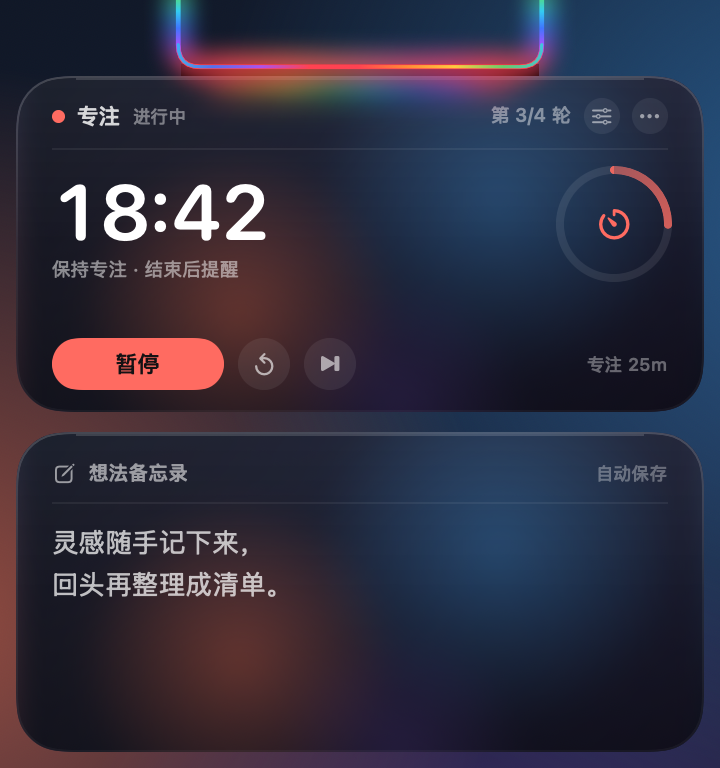
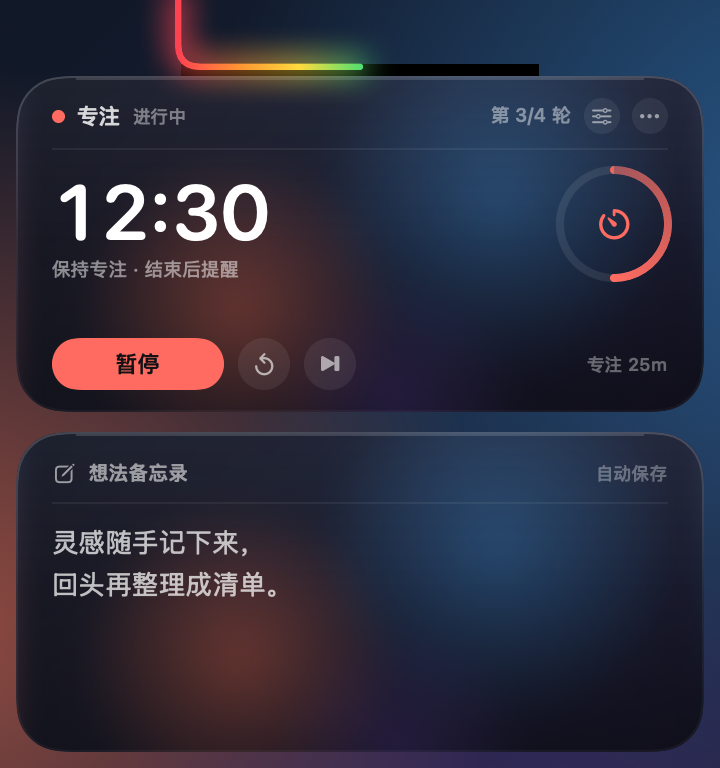
feat: notch rainbow becomes countdown progress bar

diff --git a/Sources/ThemeView.swift b/Sources/ThemeView.swift
@@ -63,26 +63,28 @@ struct ThemeCardBackground: View {
     }
 
     private var simulatedFrost: some View {
-        ZStack {
-            LinearGradient(
-                colors: [
-                    Color(red: 0.12, green: 0.20, blue: 0.34),
-                    Color(red: 0.24, green: 0.12, blue: 0.30),
-                    Color(red: 0.05, green: 0.09, blue: 0.16)
-                ],
-                startPoint: .topLeading,
-                endPoint: .bottomTrailing
-            )
-            Circle()
-                .fill(Color(red: 0.96, green: 0.54, blue: 0.38).opacity(0.55))
-                .frame(width: 190, height: 190)
-                .blur(radius: 60)
-                .offset(x: -100, y: 40)
-            Circle()
-                .fill(Color(red: 0.35, green: 0.72, blue: 0.95).opacity(0.50))
-                .frame(width: 170, height: 170)
-                .blur(radius: 55)
-                .offset(x: 105, y: -50)
+        LinearGradient(
+            colors: [
+                Color(red: 0.12, green: 0.20, blue: 0.34),
+                Color(red: 0.24, green: 0.12, blue: 0.30),
+                Color(red: 0.05, green: 0.09, blue: 0.16)
+            ],
+            startPoint: .topLeading,
+            endPoint: .bottomTrailing
+        )
+        .overlay {
+            ZStack {
+                Circle()
+                    .fill(Color(red: 0.96, green: 0.54, blue: 0.38).opacity(0.55))
+                    .frame(width: 190, height: 190)
+                    .blur(radius: 60)
+                    .offset(x: -100, y: 40)
+                Circle()
+                    .fill(Color(red: 0.35, green: 0.72, blue: 0.95).opacity(0.50))
+                    .frame(width: 170, height: 170)
+                    .blur(radius: 55)
+                    .offset(x: 105, y: -50)
+            }
         }
     }
 }
@@ -138,26 +140,28 @@ struct ThemePreviewCard: View {
     }
 
     private var previewBackdrop: some View {
-        ZStack {
-            LinearGradient(
-                colors: [
-                    Color(red: 0.18, green: 0.24, blue: 0.40),
-                    Color(red: 0.42, green: 0.20, blue: 0.34),
-                    Color(red: 0.10, green: 0.16, blue: 0.24)
-                ],
-                startPoint: .topLeading,
-                endPoint: .bottomTrailing
-            )
-            Circle()
-                .fill(Color(red: 0.98, green: 0.48, blue: 0.32).opacity(0.60))
-                .frame(width: 150, height: 150)
-                .blur(radius: 50)
-                .offset(x: -120, y: 20)
-            Circle()
-                .fill(Color(red: 0.30, green: 0.62, blue: 1.0).opacity(0.55))
-                .frame(width: 170, height: 170)
-                .blur(radius: 55)
-                .offset(x: 130, y: -30)
+        LinearGradient(
+            colors: [
+                Color(red: 0.18, green: 0.24, blue: 0.40),
+                Color(red: 0.42, green: 0.20, blue: 0.34),
+                Color(red: 0.10, green: 0.16, blue: 0.24)
+            ],
+            startPoint: .topLeading,
+            endPoint: .bottomTrailing
+        )
+        .overlay {
+            ZStack {
+                Circle()
+                    .fill(Color(red: 0.98, green: 0.48, blue: 0.32).opacity(0.60))
+                    .frame(width: 150, height: 150)
+                    .blur(radius: 50)
+                    .offset(x: -120, y: 20)
+                Circle()
+                    .fill(Color(red: 0.30, green: 0.62, blue: 1.0).opacity(0.55))
+                    .frame(width: 170, height: 170)
+                    .blur(radius: 55)
+                    .offset(x: 130, y: -30)
+            }
         }
         .allowsHitTesting(false)
     }

diff --git a/Sources/NotchView.swift b/Sources/NotchView.swift
@@ -16,12 +16,16 @@ enum RainbowPalette {
         Color(red: 0.64, green: 0.33, blue: 1.00),
         Color(red: 1.00, green: 0.26, blue: 0.32)
     ]
+
+    /// 进度条模式去掉末尾重复的红色，让整条 U 从左到右呈现完整色谱。
+    static let progressColors = Array(colors.dropLast())
 }
 
 // MARK: - 环绕刘海的彩虹
 
 struct NotchRimView: View {
     @ObservedObject var model: AppModel
+    @ObservedObject var pomodoro: PomodoroEngine
     @ObservedObject var ui: NotchUIState
     let geometry: NotchGeometry
 
@@ -52,6 +56,11 @@ struct NotchRimView: View {
         let pulse = ui.reminder
             ? 0.88 + 0.12 * CGFloat(sin(time * 4.2))
             : 1
+
+        if pomodoro.state != .ready {
+            drawProgress(context: &context, rim: rim, rect: rect, pulse: pulse)
+            return
+        }
 
         if !geometry.hasNotch {
             let silhouetteRect = CGRect(
@@ -145,6 +154,51 @@ struct NotchRimView: View {
                 style: StrokeStyle(lineWidth: 1.6, lineCap: .round, lineJoin: .round)
             )
         }
+    }
+
+    /// 倒计时期间，彩虹不再是流动的光环，而是沿 U 形路径从左到右填充的进度条。
+    /// 0% 完全不画彩虹，100% 画满整条 U。
+    private func drawProgress(
+        context: inout GraphicsContext,
+        rim: Path,
+        rect: CGRect,
+        pulse: CGFloat
+    ) {
+        let progress = min(max(pomodoro.liveProgress, 0), 1)
+        guard progress > 0.0005 else { return }
+
+        let filled = rim.trimmedPath(from: 0, to: progress)
+        let shading = GraphicsContext.Shading.linearGradient(
+            Gradient(colors: RainbowPalette.progressColors),
+            startPoint: CGPoint(x: rect.minX, y: rect.midY),
+            endPoint: CGPoint(x: rect.maxX, y: rect.midY)
+        )
+
+        // 填充部分的外发光
+        context.drawLayer { layer in
+            layer.addFilter(.blur(radius: ui.expanded ? 7.5 : 5.5))
+            layer.opacity = 0.9 * pulse
+            layer.stroke(
+                filled,
+                with: shading,
+                style: StrokeStyle(
+                    lineWidth: ui.expanded ? 8.5 : 7,
+                    lineCap: .round,
+                    lineJoin: .round
+                )
+            )
+        }
+
+        // 彩虹进度条本体
+        context.stroke(
+            filled,
+            with: shading,
+            style: StrokeStyle(
+                lineWidth: ui.expanded ? 3.2 : 2.8,
+                lineCap: .round,
+                lineJoin: .round
+            )
+        )
     }
 
     private static func openUPath(in rect: CGRect, radius: CGFloat) -> Path {

diff --git a/Sources/main.swift b/Sources/main.swift
@@ -109,8 +109,8 @@ private func renderPreview() {
     model.theme.applyPreview(image: wallpaper, opacity: 0.82, glass: .frosted)
     model.pomodoro.applyPreview(
         phase: .focus,
-        state: .running,
-        remaining: 18 * 60 + 42,
+        state: .ready,
+        remaining: 25 * 60,
         todayFocusCount: 3,
         focusStreak: 2
     )
@@ -121,10 +121,18 @@ private func renderPreview() {
     let outputDirectory = ProcessInfo.processInfo.environment["USAGECLOCK_PREVIEW_DIR"] ?? "."
 
     let collapsed = PreviewStage(size: CGSize(width: 360, height: 90), bodyOffset: 0) {
-        NotchRimView(model: model, ui: NotchUIState(), geometry: geometry)
+        NotchRimView(model: model, pomodoro: model.pomodoro, ui: NotchUIState(), geometry: geometry)
             .frame(width: geometry.capWidth, height: geometry.capHeight)
     }
     render(collapsed, width: 360, height: 90, to: "\(outputDirectory)/preview-cap.png")
+
+    model.pomodoro.applyPreview(
+        phase: .focus,
+        state: .running,
+        remaining: 12 * 60 + 30,
+        todayFocusCount: 3,
+        focusStreak: 2
+    )
 
     let expandedHeight = 32 + geometry.bodyWindowHeight
     let expanded = PreviewStage(size: CGSize(width: 360, height: expandedHeight), bodyOffset: 32) {
@@ -138,7 +146,7 @@ private func renderPreview() {
             )
             .frame(width: geometry.bodyWindowWidth, height: geometry.bodyWindowHeight)
 
-            NotchRimView(model: model, ui: ui, geometry: geometry)
+            NotchRimView(model: model, pomodoro: model.pomodoro, ui: ui, geometry: geometry)
                 .frame(width: geometry.capWidth, height: geometry.capHeight)
                 .offset(y: -32)
         }
@@ -165,7 +173,7 @@ private func renderPreview() {
             )
             .frame(width: geometry.bodyWindowWidth, height: geometry.reminderWindowHeight)
 
-            NotchRimView(model: model, ui: ui, geometry: geometry)
+            NotchRimView(model: model, pomodoro: model.pomodoro, ui: ui, geometry: geometry)
                 .frame(width: geometry.capWidth, height: geometry.capHeight)
                 .offset(y: -32)
         }

diff --git a/Sources/PomodoroEngine.swift b/Sources/PomodoroEngine.swift
@@ -79,6 +79,7 @@ final class PomodoroEngine: ObservableObject {
 
     private let defaults = UserDefaults.standard
     private var endDate: Date?
+    private var debugPhaseDuration: TimeInterval?
     private var completionSound: NSSound?
     private var todayKey: String
     private var lastRoundedRemaining: Int = 25 * 60
@@ -107,6 +108,7 @@ final class PomodoroEngine: ObservableObject {
         // 仅用于本地截图和自动化验证：用一个很短的专注时间启动。
         if let raw = ProcessInfo.processInfo.environment["USAGECLOCK_TEST_POMODORO_SECONDS"],
            let seconds = Double(raw), seconds > 0 {
+            debugPhaseDuration = seconds
             remaining = seconds
             lastRoundedRemaining = Int(ceil(seconds))
             state = .running
@@ -117,13 +119,25 @@ final class PomodoroEngine: ObservableObject {
     // MARK: - 展示
 
     var phaseDuration: TimeInterval {
-        TimeInterval(minutes(for: phase) * 60)
+        if let debugPhaseDuration { return debugPhaseDuration }
+        return TimeInterval(minutes(for: phase) * 60)
     }
 
     var progress: Double {
         let total = phaseDuration
         guard total > 0 else { return 0 }
         if state == .completed { return 1 }
+        return min(1, max(0, 1 - remaining / total))
+    }
+
+    /// 刘海进度条使用：运行中根据结束时间实时计算，暂停时停在当前剩余时间。
+    var liveProgress: Double {
+        let total = phaseDuration
+        guard total > 0 else { return 0 }
+        if state == .completed { return 1 }
+        if state == .running, let endDate {
+            return min(1, max(0, 1 - endDate.timeIntervalSinceNow / total))
+        }
         return min(1, max(0, 1 - remaining / total))
     }
 

diff --git a/Sources/NotchController.swift b/Sources/NotchController.swift
@@ -78,7 +78,7 @@ final class NotchController: NSObject, NSMenuDelegate {
 
         let capSize = geometry.capFrame.size
         let capContainer = NSView(frame: NSRect(origin: .zero, size: capSize))
-        let capHost = NSHostingView(rootView: NotchRimView(model: model, ui: ui, geometry: geometry))
+        let capHost = NSHostingView(rootView: NotchRimView(model: model, pomodoro: model.pomodoro, ui: ui, geometry: geometry))
         capHost.frame = capContainer.bounds
         capHost.autoresizingMask = [.width, .height]
         capContainer.addSubview(capHost)

diff --git a/README.md b/README.md
@@ -8,7 +8,7 @@
 ![macbook](https://img.shields.io/badge/MacBook-notch%20display-ff5a4d)
 [![license](https://img.shields.io/badge/license-MIT-blue.svg)](LICENSE)
 
-平时，彩虹沿着刘海的左、下、右三条边环绕流动；鼠标移到刘海处，它会向下展开：上方是番茄钟，下方是一块随时可以写的想法备忘录。专注或休息结束时，只会弹出计时卡片提醒你，不会把备忘录一起带出来。
+平时，彩虹沿着刘海的左、下、右三条边环绕流动；一旦开始专注或休息，彩虹就变成倒计时进度条，从左到右慢慢填满。鼠标移到刘海处，它会向下展开：上方是番茄钟，下方是一块随时可以写的想法备忘录。专注或休息结束时，只会弹出计时卡片提醒你，不会把备忘录一起带出来。
 
 ## 兼容性
 
@@ -32,17 +32,27 @@
 
 ![到点提醒](docs/notch-reminder.png)
 
-> 展示图里是示例数据：专注 `18:42`、今天第 3 轮，备忘录里是示例文字。
+> 展示图里是示例数据：专注 `12:30`（进度约一半）、今天第 3 轮，备忘录里是示例文字。收起图是**未开始**时的流动彩虹；展开图里彩虹填到一半，就是当前专注进度。
 
 ## 番茄钟
 
 - 默认 **专注 25 分钟 / 短休息 5 分钟 / 长休息 15 分钟**
 - 每完成 **4 轮**专注，自动进入一次长休息；间隔和三种时长都能在设置里改
 - 大数字是当前阶段倒计时；右侧圆环显示本轮进度
+- **刘海彩虹就是进度条**：开始专注/休息后，彩虹从左边开始沿 U 形填满，0% 没有彩虹，100% 整条彩虹亮起
 - **开始专注 / 暂停 / 继续 / 重置本轮 / 跳过本轮**
 - 顶部显示当前阶段、今天完成了多少轮；休息阶段会换成绿色或蓝色
 - 专注和休息结束时会播放系统提示音（可在设置里关掉）
 - 点 **⟳** 重置本轮，点 **⏭** 跳过本轮；跳过专注不会计入今日轮数
+
+### 刘海彩虹进度条
+
+- **没有计时（准备开始/空闲）**：保持原来的三边流动彩虹
+- **专注、短休息、长休息倒计时**：彩虹变成进度条，从左到右填满 U 形刘海边缘
+- **0%**：完全不画彩虹；**100%**：整条 U 形彩虹全部亮起
+- **暂停**：停在当前进度；**完成**：保持 100% 全彩虹（提醒时轻微呼吸）
+- **重置/跳过**回到准备状态，彩虹恢复流动
+- 进度条使用实时进度计算，不是每秒跳一格；展开和收起的刘海都能看到
 
 ### 到点提醒
 
@@ -227,6 +237,9 @@ UsageClock/
 **刘海处没有彩虹？**
 确认应用正在运行（`pgrep -x UsageClock`）。如果这台 Mac 没有刘海，或主要在使用外接显示器，应用会在当前主屏幕顶部中间补一个黑色刘海形状和彩虹光环，悬停同样可以展开。
 
+**为什么彩虹只亮了一部分？**
+那是当前倒计时的进度：0% 完全不亮，100% 整条 U 形都亮。专注/休息结束时会到 100%；没有计时时才是完整流动的彩虹。
+
 **到点提醒只出现一下就没了？**
 没有操作时约 20 秒后会自动收回；鼠标停在卡片上会保持。点「稍后」也会收起提醒，但完成状态还在，重新悬停可以看到并开始下一阶段。
 
@@ -260,7 +273,7 @@ xattr -dr com.apple.quarantine ~/Applications/UsageClock.app
 
 ---
 
-当前版本：**3.0.0（build 10）**
+当前版本：**3.1.0（build 11）**
 
 仓库：<https://github.com/liutongqi0-star/notch-pomodoro>
 
